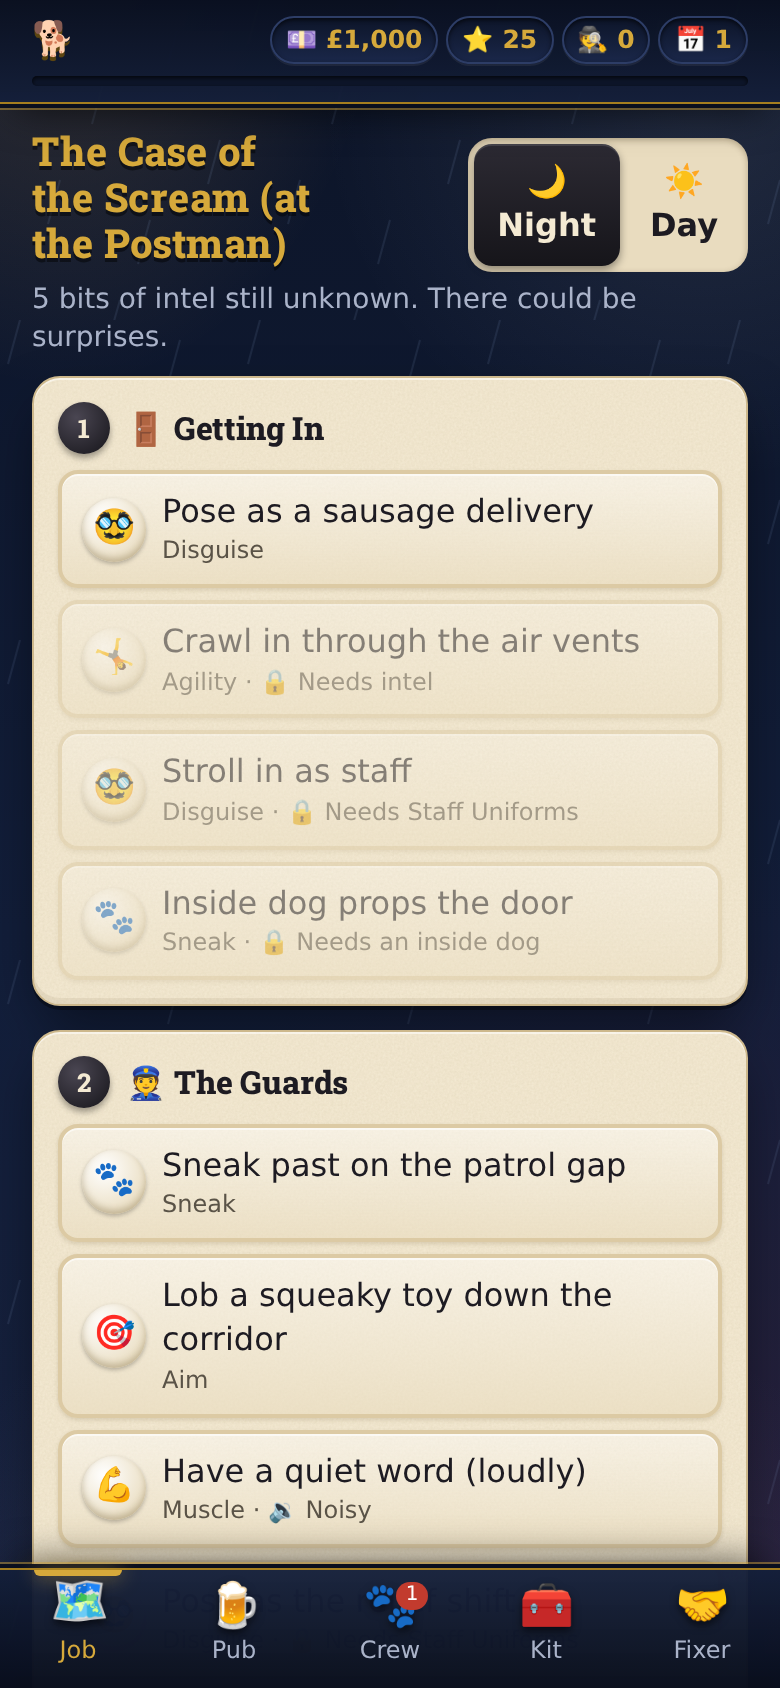
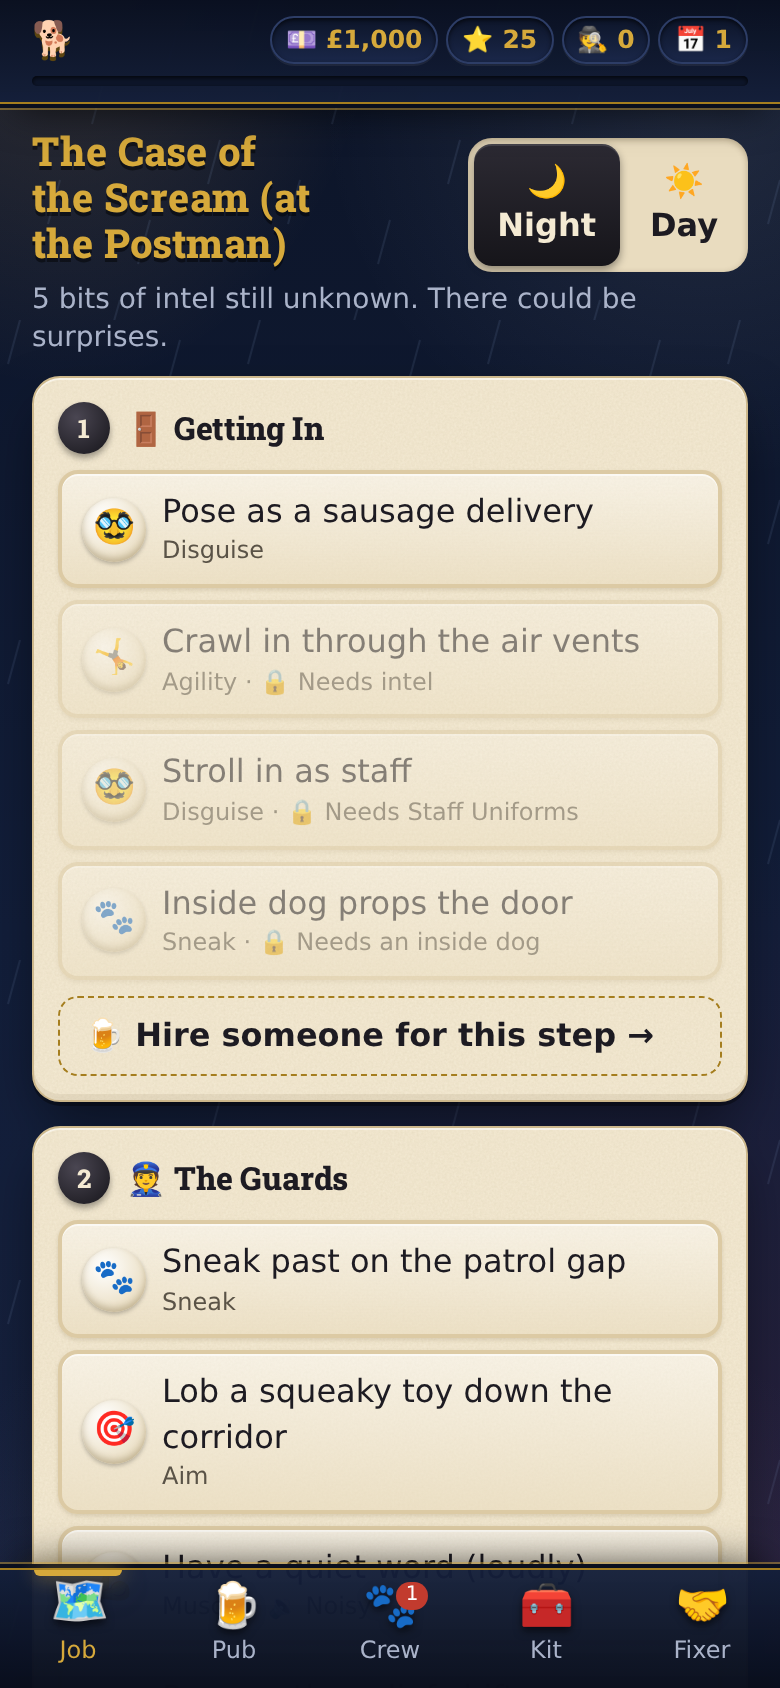
Hire crew straight from a planning step
- Each plan step has a '+ Hire' tile (or a link, before an approach is picked)
- Opens the pub in hiring-for mode: banner names the step and the skill it
  needs; black book and pub dogs sorted by known fit, with a skill chip
- Hiring assigns the dog to that step (keeping the chosen approach, or picking
  the one they look best at) and returns to the plan, scrolled to the step
- Back button returns to the step without hiring; nav tabs cancel the mode
- Tests: engine assignToStage; smoke drives the flow with real taps

Claude-Session: https://claude.ai/code/session_0119DQBJUjuLkFW8ZZge45qz

Changed region(s): [[0.0308, 0.5853, 0.9846, 0.9242]]

diff --git a/src/ui.js b/src/ui.js
@@ -172,6 +172,7 @@ function dogCard(G, d, opts = {}) {
     <div class="grow"><div class="name">${esc(displayName(d))}</div>
       <div class="faction">${esc(FACTIONS[d.faction].label)}</div>
       <div class="sub">${esc(b.label)} · ${specialtyText(d)} · ${esc(relationLabel(d))}</div>
+      ${opts.skill ? `<span class="chip ${d.known.skills[opts.skill] ? 'info' : ''}">${SKILL_INFO[opts.skill].icon} ${SKILL_INFO[opts.skill].label} ${d.known.skills[opts.skill] ? skillOf(d, opts.skill) : '?'}</span>` : ''}
       ${flags.join(' ')}</div>
     <div class="center">${right}</div></button>`;
 }
@@ -179,6 +180,21 @@ function dogCard(G, d, opts = {}) {
 function pubScreen(G) {
   const s = G.state;
   const pub = s.pub.map((id) => s.dogs[id]).filter((d) => d.status === 'free');
+  const hf = hiringFor(G);
+  if (hf) {
+    // Best known fit for the step first; unknowns after.
+    const fit = (d) => (hf.skill && d.known.skills[hf.skill] ? skillOf(d, hf.skill) : -1);
+    const sort = (list) => list.slice().sort((a, b) => fit(b) - fit(a));
+    const book = E.bookDogs(s).filter((d) => d.status === 'free' && !s.crew.includes(d.id) && !s.pub.includes(d.id));
+    const need = hf.skill ? `Needs ${SKILL_INFO[hf.skill].icon} <b>${SKILL_INFO[hf.skill].label}</b> for “${esc(APPROACHES[hf.approach].label)}”.` : 'No approach picked yet, so anyone will do.';
+    return `<section class="card dark hire-banner"><div class="muted">Hiring for step ${hf.n}</div><h2>${hf.stage.icon} ${esc(hf.stage.label)}</h2>
+      <p>${need} Whoever you hire goes straight onto this step.</p>
+      <button class="btn ghost small" data-act="hire-back">← Back to the plan</button></section>
+      ${book.length ? `<h2>Your Little Black Book</h2>${sort(book).map((d) => dogCard(G, d, { fee: true, skill: hf.skill })).join('')}` : ''}
+      <h2 class="mt">At the Dog &amp; Duck</h2>
+      ${sort(pub).map((d) => dogCard(G, d, { fee: true, skill: hf.skill })).join('') || '<p class="muted">The pub is empty. Ask around.</p>'}
+      <div class="btn-row"><button class="btn ghost" data-act="ask-around" ${s.job.daysLeft ? '' : 'disabled'}>🗣 Ask around for new faces (1 day)</button></div>`;
+  }
   return `<h2>The Dog &amp; Duck</h2>
   <p class="muted">Smoke, darts, and dogs looking for work. Tap someone to size them up.</p>
   ${pub.map((d) => dogCard(G, d, { fee: true })).join('') || '<p class="muted">The pub is empty. Ask around.</p>'}
@@ -234,6 +250,22 @@ function fixerScreen(G) {
 }
 
 // ------------------------------------------------------------------ plan
+function hireTile(st, skill) {
+  return `<button class="assignee hire-tile" data-act="hire-for" data-stage="${st.id}" aria-label="Hire someone for ${esc(st.label)}"><span class="plus">＋</span>Hire<br><small>${SKILL_INFO[skill].icon} ${SKILL_INFO[skill].label}</small></button>`;
+}
+
+// Which step (and skill) the pub is hiring for, if we came from the plan.
+export function hiringFor(G) {
+  const hf = G.ui.hireFor;
+  if (!hf || !G.state || G.state.phase !== 'plan') return null;
+  const stages = visibleStages(G.state.job);
+  const idx = stages.findIndex((st) => st.id === hf.stage);
+  if (idx < 0) return null;
+  const st = stages[idx];
+  const ap = G.state.job.plan[st.id]?.approach;
+  return { stage: st, n: idx + 1, approach: ap || null, skill: ap ? APPROACHES[ap].skill : null };
+}
+
 function planScreen(G) {
   const s = G.state;
   const job = s.job;
@@ -263,9 +295,10 @@ function planScreen(G) {
       h += `<button class="opt ${p.approach === ap ? 'on' : ''}" data-act="plan-ap" data-stage="${st.id}" data-ap="${ap}" ${av.ok ? '' : 'disabled'}><span class="ski">${SKILL_INFO[a.skill].icon}</span><span class="grow">${esc(a.label)}<div class="tags">${SKILL_INFO[a.skill].label}${tags.length ? ' · ' + esc(tags.join(' · ')) : ''}</div></span></button>`;
     }
     h += '</div>';
+    if (!p.approach) h += `<button class="hire-link" data-act="hire-for" data-stage="${st.id}">🍺 Hire someone for this step →</button>`;
     if (p.approach) {
       const skill = APPROACHES[p.approach].skill;
-      h += `<div class="assignees">${crew.map((d) => `<button class="assignee ${p.dog === d.id ? 'on' : ''}" data-act="plan-dog" data-stage="${st.id}" data-id="${d.id}">${portraitSVG(d, { size: 44 })}${esc(shortName(d))}<br><b>${d.known.skills[skill] ? skillOf(d, skill) : '?'}</b> ${SKILL_INFO[skill].icon}</button>`).join('')}</div>`;
+      h += `<div class="assignees">${crew.map((d) => `<button class="assignee ${p.dog === d.id ? 'on' : ''}" data-act="plan-dog" data-stage="${st.id}" data-id="${d.id}">${portraitSVG(d, { size: 44 })}${esc(shortName(d))}<br><b>${d.known.skills[skill] ? skillOf(d, skill) : '?'}</b> ${SKILL_INFO[skill].icon}</button>`).join('')}${hireTile(st, skill)}</div>`;
       if (p.dog) {
         const d = s.dogs[p.dog];
         const o = odds(s, job, st, p.approach, d);
@@ -544,7 +577,8 @@ function dogModal(G, d) {
   // Actions: one primary, then compact secondaries.
   const primary = [];
   const minor = [];
-  if (planning && d.status === 'free' && !inCrew) primary.push(`<button class="btn" data-act="hire" data-id="${d.id}">Hire · ${money(d.fee)}</button>`);
+  const hf = hiringFor(G);
+  if (planning && d.status === 'free' && !inCrew) primary.push(`<button class="btn" data-act="hire" data-id="${d.id}">${hf ? `Hire for step ${hf.n}` : 'Hire'} · ${money(d.fee)}</button>`);
   if (planning && inCrew) primary.push(`<button class="btn ghost" data-act="dismiss" data-id="${d.id}">Drop from crew</button>`);
   if (d.status === 'pound') primary.push(`<button class="btn" data-act="lawyer" data-id="${d.id}">⚖ Hire a brief · £150</button>`);
   if (planning && ['free', 'crew'].includes(d.status) && !(d.known.loyalty && (d.cleared || d.known.undercover))) minor.push(`<button class="btn ghost small" data-act="surveil" data-id="${d.id}" ${s.job.daysLeft ? '' : 'disabled'} aria-label="Have them followed, £80, 1 day">🕵 Tail<small>£80 · 1 day</small></button>`);

diff --git a/src/main.js b/src/main.js
@@ -1,6 +1,6 @@
 // Boot, save/load, input routing and the frame loop.
 import * as E from './engine.js';
-import { render, currentScreen } from './ui.js';
+import { render, currentScreen, hiringFor } from './ui.js';
 import { installDebug, updateOverlay } from './debug.js';
 import { cardPNG, shareBlob } from './card.js';
 
@@ -87,9 +87,23 @@ G.advanceBeat = (doRender = true) => {
 };
 
 // ------------------------------------------------------------------ actions
+// Back to the plan, scrolled to (and briefly highlighting) the step we hired for.
+function returnToPlan(stageId) {
+  G.ui.hireFor = null;
+  G.ui.modal = null;
+  G.ui.screen = 'plan';
+  G.commit();
+  const el = stageId && document.querySelector(`.stage[data-stage="${stageId}"]`);
+  if (el) {
+    el.scrollIntoView({ block: 'center' });
+    el.classList.add('flash');
+  } else window.scrollTo(0, 0);
+}
+
 const A = {
   'go'(el) {
     G.clearToasts();
+    G.ui.hireFor = null;
     G.ui.screen = el.dataset.to;
     G.ui.modal = null;
     G.commit();
@@ -130,7 +144,28 @@ const A = {
   'laylow'() { run(E.layLow); },
   'dog'(el) { G.ui.modal = { type: 'dog', id: el.dataset.id }; G.ui.confirmFarm = null; G.render(); },
   'close-modal'() { G.ui.modal = null; G.ui.confirmFarm = null; G.render(); },
-  'hire'(el) { run(E.hire, el.dataset.id); },
+  'hire'(el) {
+    const id = el.dataset.id;
+    const hf = hiringFor(G);
+    const r = E.hire(G.state, id);
+    if (!r.ok || !hf) {
+      toast(r.msg, !r.ok);
+      G.commit();
+      return;
+    }
+    E.assignToStage(G.state, hf.stage.id, id);
+    toast(`${r.msg} On step ${hf.n}: ${hf.stage.label}.`);
+    returnToPlan(hf.stage.id);
+  },
+  'hire-for'(el) {
+    G.clearToasts();
+    G.ui.hireFor = { stage: el.dataset.stage };
+    G.ui.screen = 'pub';
+    G.ui.modal = null;
+    G.commit();
+    window.scrollTo(0, 0);
+  },
+  'hire-back'() { returnToPlan(G.ui.hireFor?.stage); },
   'dismiss'(el) { run(E.dismiss, el.dataset.id); },
   'surveil'(el) { run(E.surveil, el.dataset.id); },
   'lawyer'(el) { run(E.lawyer, el.dataset.id); },

diff --git a/src/engine.js b/src/engine.js
@@ -344,6 +344,30 @@ export function setPlan(state, stageId, patch) {
   return done('Plan updated.');
 }
 
+// Put a crew member on a step. Keeps the step's chosen approach; if none is
+// chosen yet (or it's unavailable), picks the one this dog looks best at.
+export function assignToStage(state, stageId, dogId) {
+  const job = state.job;
+  const stage = job.stages.find((s) => s.id === stageId);
+  const d = state.dogs[dogId];
+  if (!stage || stage.hidden || !d) return fail('No such step.');
+  if (!state.crew.includes(dogId)) return fail('Not on the crew.');
+  let approach = job.plan[stageId]?.approach;
+  if (!approach || !approachAvailable(state, job, approach).ok) {
+    let best = null;
+    for (const ap of stage.options) {
+      if (!approachAvailable(state, job, ap).ok) continue;
+      const known = d.known.skills[APPROACHES[ap].skill];
+      const o = odds(state, job, stage, ap, d);
+      const score = known ? o.p : o.p * 0.5 + 0.1;
+      if (!best || score > best.score) best = { ap, score };
+    }
+    approach = best?.ap;
+  }
+  job.plan[stageId] = { approach, dog: dogId };
+  return done(`${shortName(d)} is on ${stage.label}.`);
+}
+
 // Fill any gaps in the plan with the best-looking choice using *known* info,
 // falling back to anyone for unknowns.
 export function autoPlan(state) {

diff --git a/styles.css b/styles.css
@@ -431,3 +431,13 @@ p { margin: 0 0 8px; }
 .dm-confirm { font-size: 14px; color: var(--ink); }
 /* With a sheet open, toasts drop in from the top so they never cover its buttons. */
 .modal-open #toast { bottom: auto; top: calc(12px + env(safe-area-inset-top, 0px)); }
+
+/* ---------- hiring from the plan */
+.hire-tile { border-style: dashed; border-color: var(--brass-dark); background: rgba(255, 255, 255, .25); display: flex; flex-direction: column; align-items: center; justify-content: center; gap: 1px; font-weight: 700; color: var(--ink); }
+.hire-tile .plus { font-size: 22px; line-height: 1; color: var(--brass-dark); }
+.hire-tile small { font-weight: 600; font-size: 10px; color: var(--ink-soft); }
+.hire-link { margin-top: 8px; background: none; border: 1px dashed var(--brass-dark); border-radius: 10px; padding: 8px 12px; min-height: 40px; width: 100%; color: var(--ink); font-weight: 700; text-align: left; }
+.hire-banner h2 { color: var(--paper); margin-top: 2px; }
+.hire-banner p { font-size: 14px; }
+.stage.flash { animation: flash 1.6s ease-out; }
+@keyframes flash { 0%, 30% { box-shadow: var(--shadow), 0 0 0 3px var(--brass), 0 0 24px rgba(214, 169, 59, .8); } }
